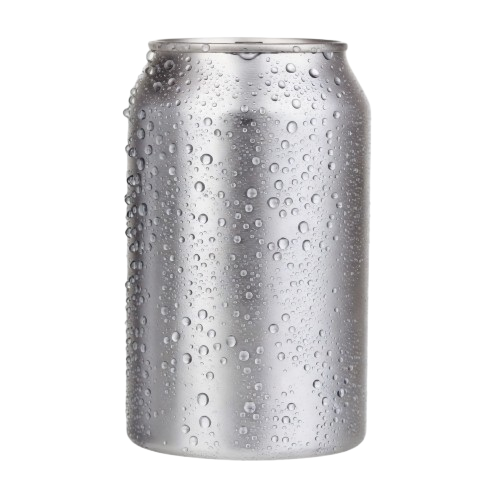
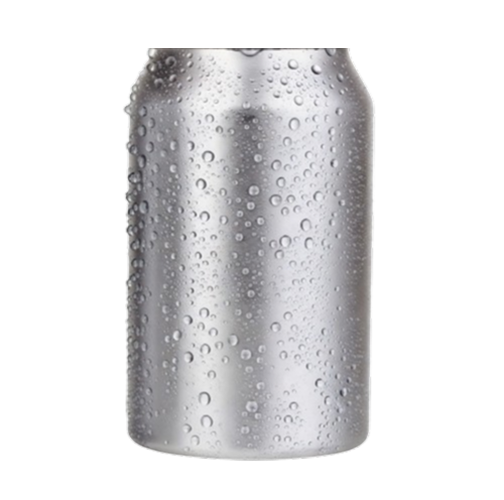
I prepare design

diff --git a/index.html b/index.html
@@ -7,14 +7,35 @@
     <link rel="stylesheet" href="./style.css">
 </head>
 <body class="background">
-    <div class="can">
-        <div class="design-wrapper">
-            <img src="./src/img/coca.jpg" alt="">
-            <!-- <img src="./src/img/cocacola.jpg" alt="Coca-Cola"> -->
-            <!-- <img src="./src/img/fanta.jpg" alt="Fanta"> -->
-            <!-- <img src="./src/img/sprite.jpg" alt="Sprite"> -->
-             <!-- <img src="./src/img/pepsi.jpg" alt=""> -->
+    <main class="list">
+        <div class="can">
+            <div class="name">Coca-Cola</div>
+            <div class="design-wrapper">
+                <img src="./src/img/coca.jpg" alt="Coca-Cola">
+            </div>
         </div>
-    </div>
+        <div class="can">
+            <div class="design-wrapper">
+                <img src="./src/img/Pepsi.jpg" alt="Pepsi">
+            </div>
+        </div>
+        <div class="can">
+            <div class="design-wrapper">
+                <img src="./src/img/fanta.jpg" alt="Fanta">
+            </div>
+        </div>
+        <div class="can">
+            <div class="design-wrapper">
+                <img src="src/img/sprite.jpg" alt="Sprite">
+            </div>
+        </div>
+    </main>
+    <!-- <button type="button">
+        <svg xmlns="http://www.w3.org/2000/svg" width="24" height="24" viewBox="0 0 24 24" fill="none" stroke="currentColor" stroke-width="2" stroke-linecap="round" stroke-linejoin="round" class="lucide lucide-chevron-left-icon lucide-chevron-left"><path d="m15 18-6-6 6-6"/></svg>
+    </button>
+    <button type="button">
+        <svg xmlns="http://www.w3.org/2000/svg" width="24" height="24" viewBox="0 0 24 24" fill="none" stroke="currentColor" stroke-width="2" stroke-linecap="round" stroke-linejoin="round" class="lucide lucide-chevron-right-icon lucide-chevron-right"><path d="m9 18 6-6-6-6"/></svg>
+    </button> -->
+    <script src="./script.js"></script>
 </body>
 </html>

diff --git a/style.css b/style.css
@@ -2,24 +2,50 @@ body {
     display: flex;
     justify-content: center;
     align-items: center;
+    flex-wrap: wrap;
+    margin: 0;
     height: 100vh;
+}
+button {
+    width: 60px;
+    height: 60px;
+    transition: stroke 0.3s ease;
+    border: none;
+    cursor: pointer;
     background-color: #f0f0f0;
+    border-radius: 100%;
+    display: flex;
+    justify-content: center;
+    align-items: center;
 }
 .can {
+    display: none;
+    cursor: pointer;
     width: 340px;
     height: 450px;
     position: relative;
     background: url('./src/img/can.png') no-repeat center / contain;
 }
+.name {
+    color: white;
+    text-align: center;
+    font-size: 74px;
+    font-family: Impact;
+}
+
+.animation {
+    animation: animationCan 1s ease-in;
+}
 
 .design-wrapper {
     position: absolute;
     inset: 0;
-    -webkit-mask-image: url('./src/img/can-base-2.png');
-    mask-image: url('./src/img/can-base-2.png');
+    -webkit-mask-image: url('./src/img/can-base.png');
+    mask-image: url('./src/img/can-base.png');
     mask-size: contain;
     mask-repeat: no-repeat;
     mask-position: center;
+    opacity: 0.8;
 }
 
 .design-wrapper img {
@@ -28,7 +54,8 @@ body {
     object-fit: contain;
     object-position: center;
     transform: scale(0.7);
-    opacity: 0.7;
+    opacity: 0.9;
+    filter: saturate(180%) contrast(120%) brightness(115%);
     mix-blend-mode: multiply; 
 }
 
@@ -39,9 +66,15 @@ body {
     pointer-events: none;
     z-index: 2;
 }
+
 .background {
-    background: linear-gradient(135deg, #ff9a9e 0%, #fad0c4 100%);
-    background-size: 400% 400%;
+    background: radial-gradient(
+        circle at center,
+        #fa3232 0%,
+        #c73333 40%,
+        #700c0c 70%,
+        #500a0a 100%
+    );
 }
 @keyframes gradientAnimation {
     0% { background-position: 0% 50%; }

diff --git a/script.js b/script.js
@@ -1,0 +1,18 @@
+const can = document.querySelectorAll('.can');
+can[0].style.display = 'block';
+const buttons = document.querySelectorAll('button');
+let currentIndex = 0;
+buttons[0].addEventListener('click', () => {
+    can[currentIndex].style.display = 'none';
+    can[currentIndex].classList.remove('animation');
+    currentIndex = (currentIndex + 1) % can.length;
+    can[currentIndex].style.display = 'block';
+    can[currentIndex].classList.add('animation');
+});
+buttons[1].addEventListener('click', () => {
+    can[currentIndex].style.display = 'none';
+    can[currentIndex].classList.remove('animation');
+    currentIndex = (currentIndex - 1 + can.length) % can.length;
+    can[currentIndex].style.display = 'block';
+    can[currentIndex].classList.add('animation');
+});
